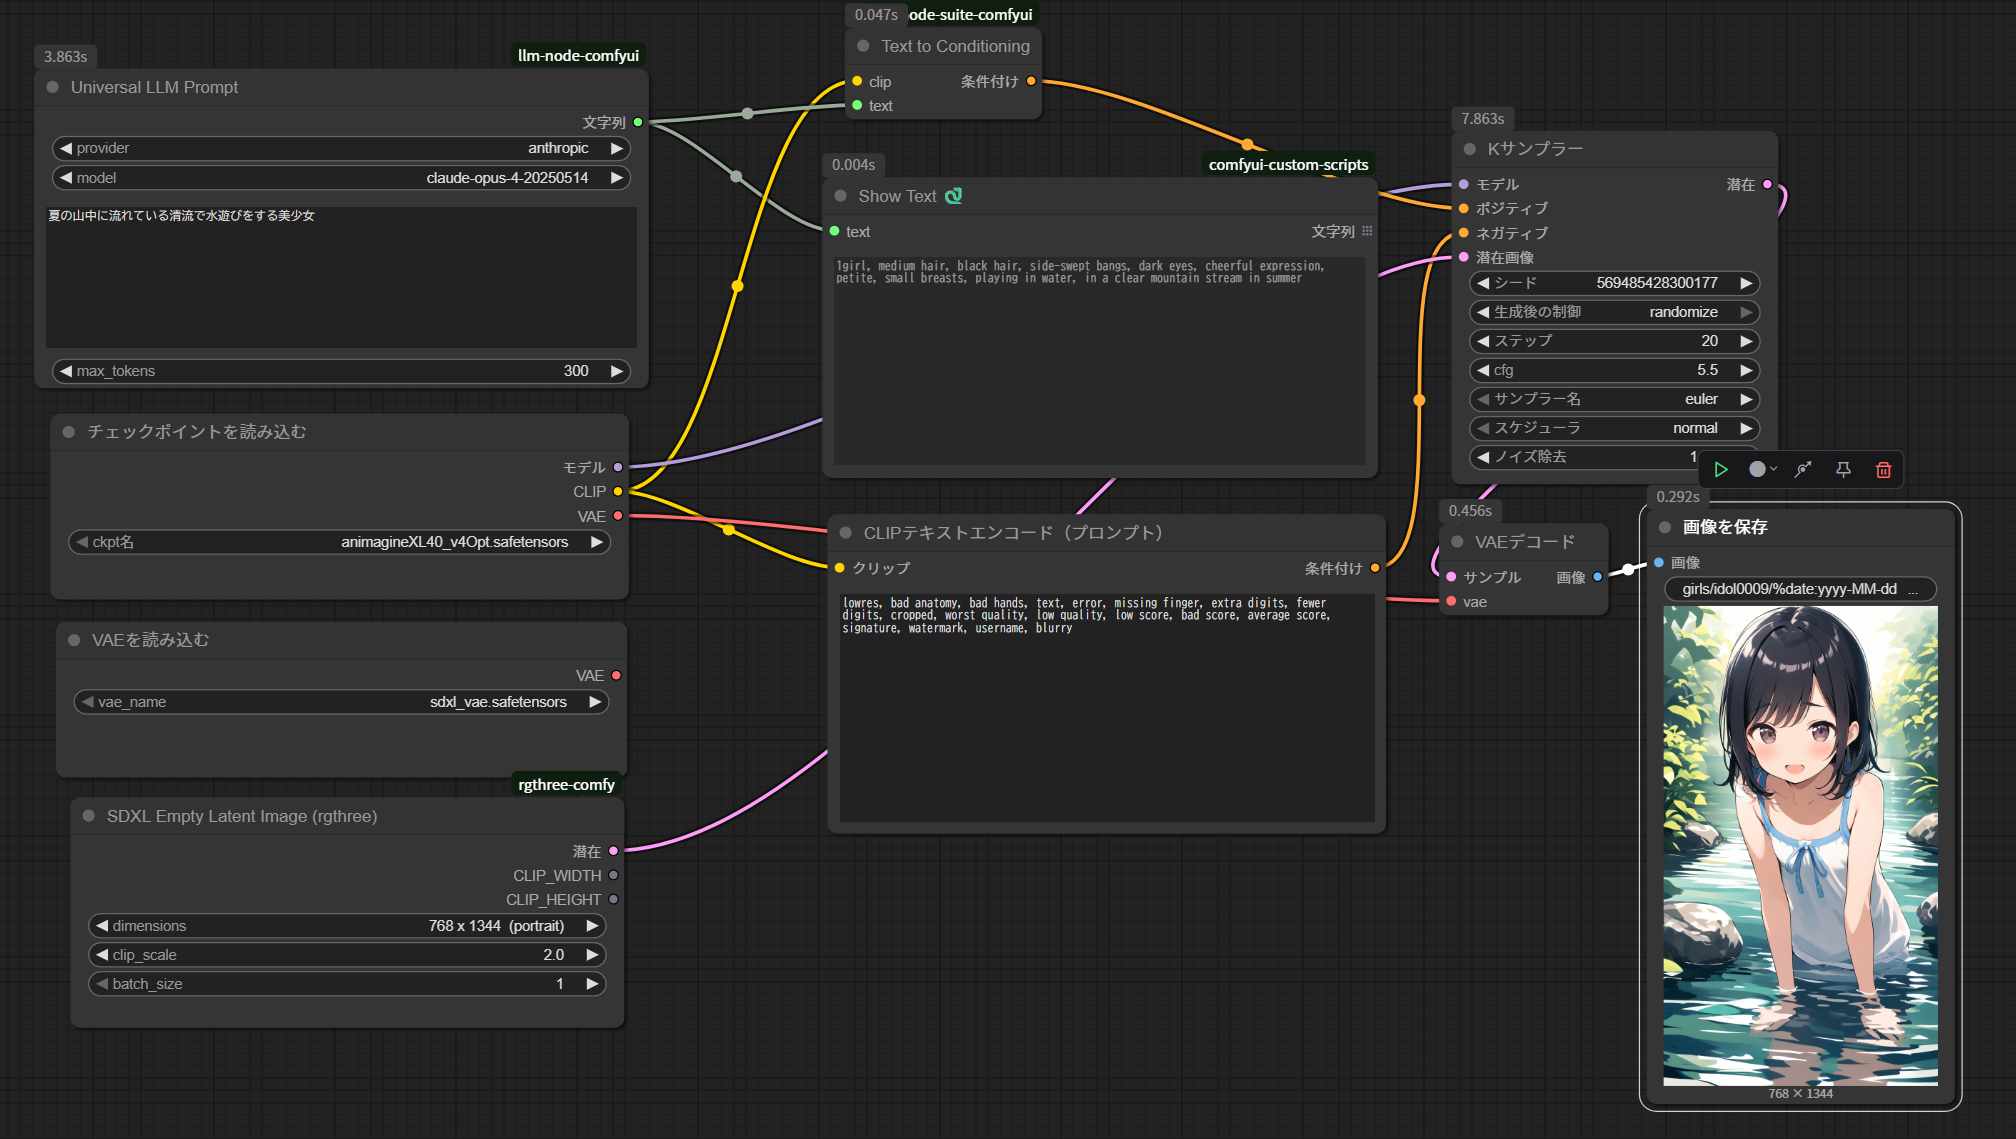
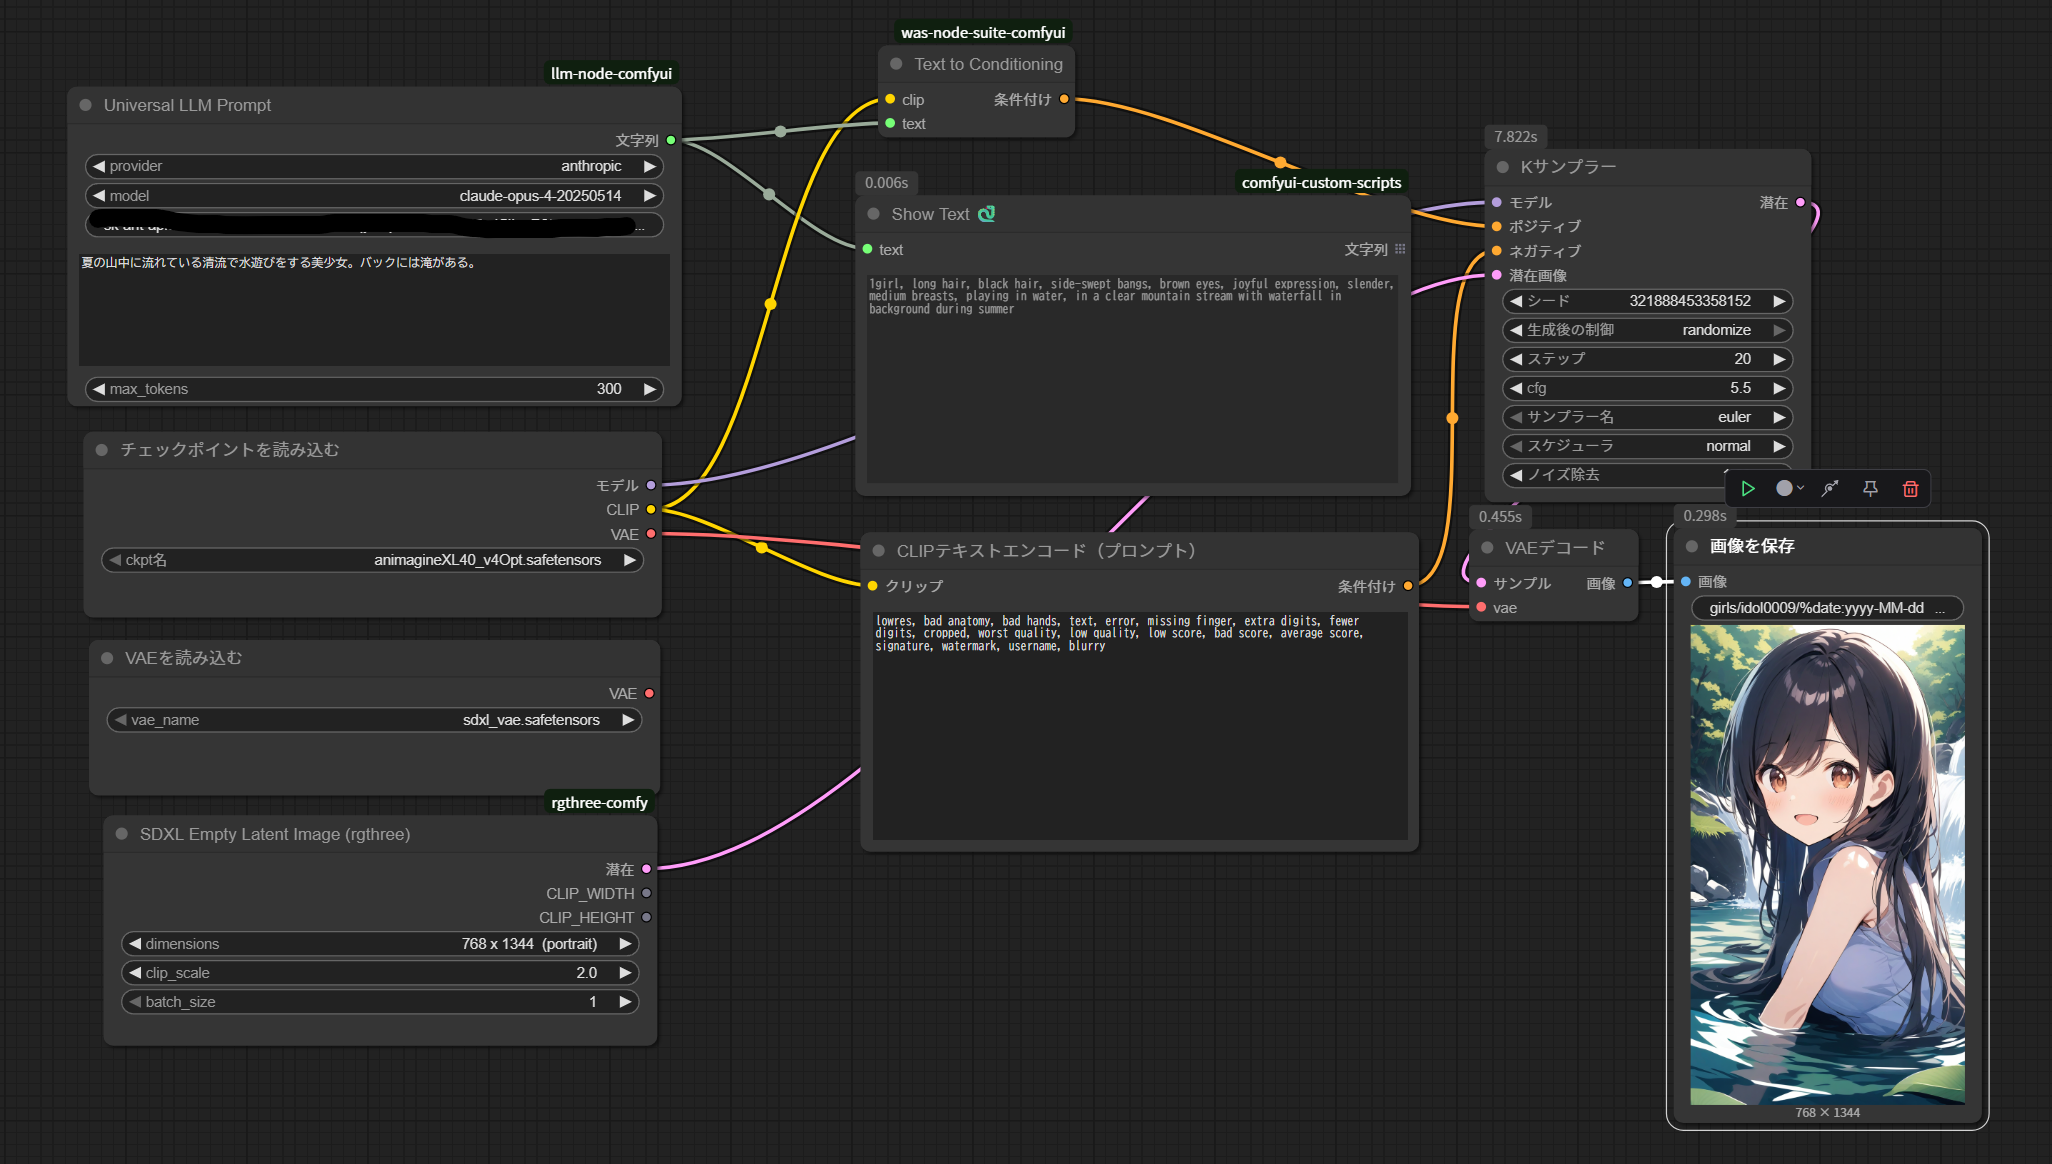
READMEとワークフロー画像を最新仕様に合わせて更新

diff --git a/README.md b/README.md
@@ -11,11 +11,13 @@ UniversalLLMNodeは、OpenAI・Anthropic（Claude）・Google Gemini・Groq・Mi
 
 1. **provider** で利用したいLLMサービス（openai, anthropic, google, groq, mistral）を選択します。
 2. **model** で利用したいモデル名を選択します（リストから選択）。
-3. **prompt** にシーンやタグなど、画像生成に使いたい内容を入力します。
-4. **max_tokens** で返答の最大トークン数を指定します（通常は300程度で十分です）。
-5. ノードを実行すると、各社LLM APIを使ってSDXL用の高品質なプロンプトが自動生成されます。
+3. **api_key** に各サービスのAPIキーを直接入力します（.envファイルは不要です）。  
+   ※ ComfyUI標準UIではAPIキーは非表示になりませんのでご注意ください。
+4. **prompt** にシーンやタグなど、画像生成に使いたい内容を入力します。
+5. **max_tokens** で返答の最大トークン数を指定します（通常は300程度で十分です）。
+6. ノードを実行すると、各社LLM APIを使ってSDXL用の高品質なプロンプトが自動生成されます。
 
-> ※ providerごとに利用できるモデル名は異なります。APIキーの設定も忘れずに行ってください。
+> ※ providerごとに利用できるモデル名は異なります。APIキーはUI上で直接入力してください。
 
 ## What is this?
 
@@ -26,8 +28,10 @@ It is ideal for automatically generating high-quality SDXL prompts for image gen
 
 1. Select the **provider** (openai, anthropic, google, groq, mistral) you want to use.
 2. Choose the **model** from the list of available models for the selected provider.
-3. Enter your scene description or tags in the **prompt** field.
-4. Set **max_tokens** to limit the maximum number of tokens in the response (300 is usually enough).
-5. Run the node. It will use the selected LLM API to automatically generate a high-quality SDXL prompt.
+3. Enter your **api_key** for the selected service directly in the UI (no .env file needed).  
+   *Note: The API key will be visible in the UI due to ComfyUI limitations.*
+4. Enter your scene description or tags in the **prompt** field.
+5. Set **max_tokens** to limit the maximum number of tokens in the response (300 is usually enough).
+6. Run the node. It will use the selected LLM API to automatically generate a high-quality SDXL prompt.
 
-> *Note: Available models depend on the provider. Make sure to set your API keys for each service.*
+> *Note: Available models depend on the provider. Enter your API key directly in the UI. The key will not be hidden in the standard ComfyUI interface.*
